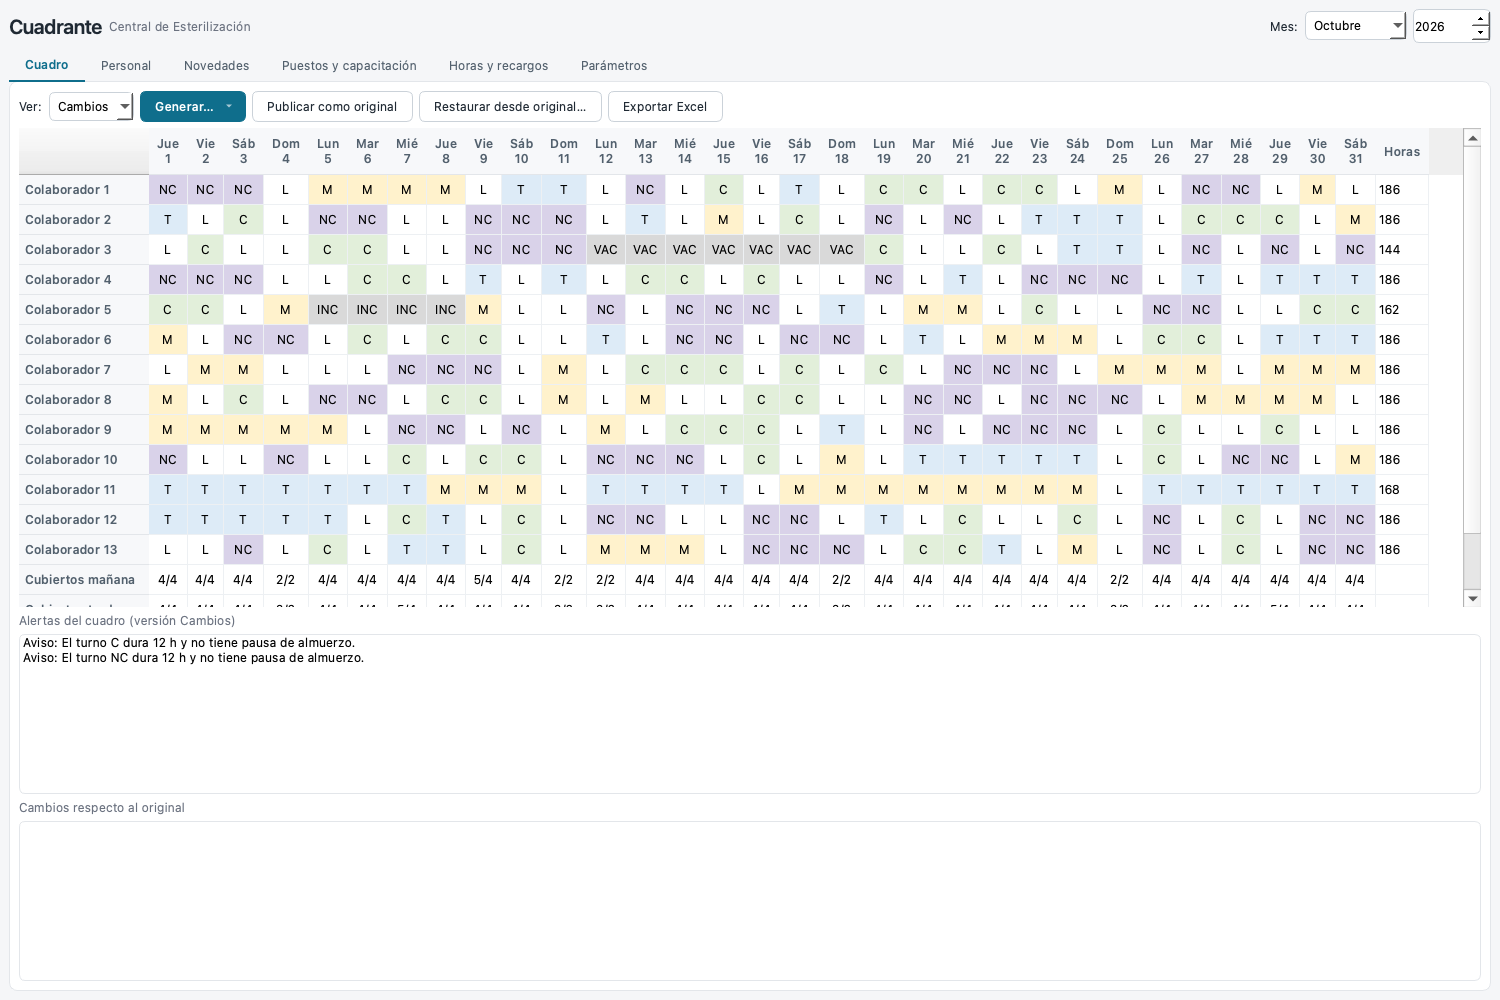
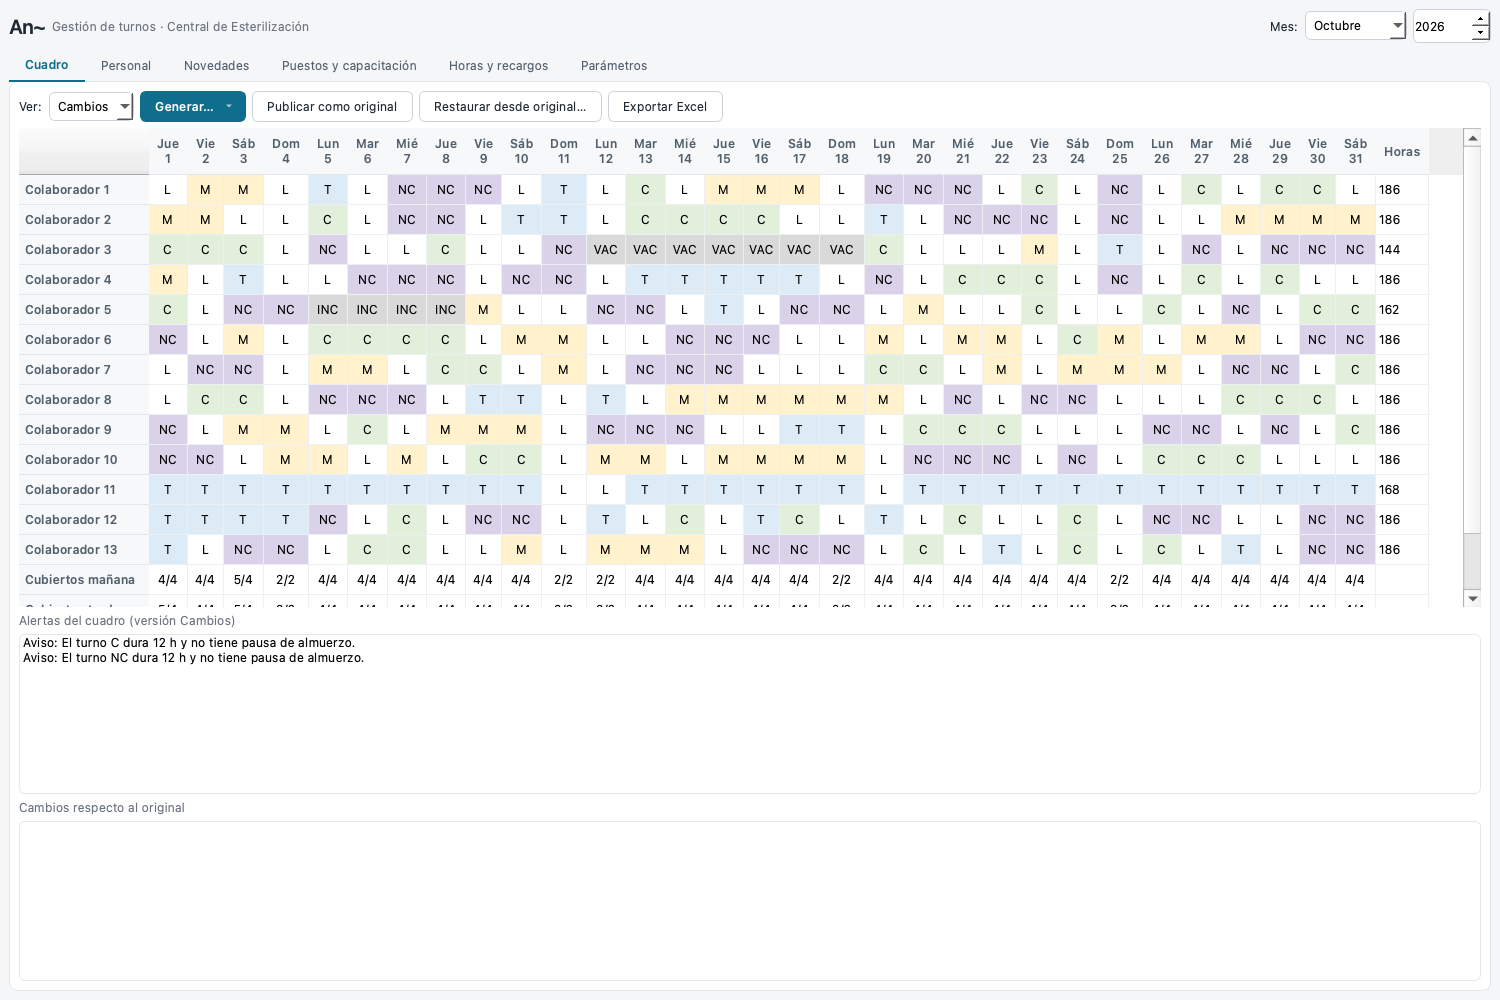
Rename project to An~ and describe it as general shift management
Rename the app, launcher and package to An~ (ASCII slug "an" for files).
Reposition the README around shift management with room to grow to more
services and linked administrative processes, and add docs/VISION.md.

Changed region(s): [[0.092, 0.155, 0.92, 0.589], [0.0, 0.0, 0.184, 0.031], [0.092, 0.527, 0.1227, 0.589]]

diff --git a/app.py b/app.py
@@ -1,4 +1,4 @@
-"""Cuadrante: personal, novedades, cuadro mensual, puestos, horas y recargos."""
+"""An~: personal, novedades, cuadro mensual, puestos, horas y recargos."""
 import os
 import subprocess
 import sys
@@ -114,9 +114,9 @@ class Trabajo(QThread):
 class Ventana(QMainWindow):
     def __init__(self, ruta_bd=BD_RUTA):
         super().__init__()
-        self.setWindowTitle("Cuadrante · Esterilización")
+        self.setWindowTitle("An~ · Esterilización")
         self.resize(1360, 860)
-        self.cfg = QSettings("Cuadrante", "Cuadrante")
+        self.cfg = QSettings("An", "An")
         self.bd = db.BD(str(ruta_bd))
         self.trabajo = None
         hoy = date.today()
@@ -124,8 +124,8 @@ class Ventana(QMainWindow):
         self.setCentralWidget(raiz)
         v = QVBoxLayout(raiz)
         cab = QHBoxLayout()
-        cab.addWidget(QLabel("Cuadrante", objectName="titulo"))
-        cab.addWidget(QLabel("Central de Esterilización", objectName="muted"))
+        cab.addWidget(QLabel("An~", objectName="titulo"))
+        cab.addWidget(QLabel("Gestión de turnos · Central de Esterilización", objectName="muted"))
         cab.addStretch()
         self.mes = QComboBox()
         self.mes.addItems(MESES)

diff --git a/README.md b/README.md
@@ -1,9 +1,9 @@
 <div align="center">
 
-# Cuadrante
+# An~
 
-**Programación de turnos para la Central de Esterilización**<br>
-Genera el cuadro mensual, asigna los puestos del día y calcula horas y recargos según el Código Sustantivo del Trabajo.
+**Gestión de turnos y de los procesos que giran alrededor**<br>
+Hoy programa la Central de Esterilización: genera el cuadro mensual, asigna puestos y calcula horas y recargos según el Código Sustantivo del Trabajo. Está pensada para crecer a más servicios y a procesos administrativos vinculados.
 
 ![Python](https://img.shields.io/badge/Python-3.13-3776AB?logo=python&logoColor=white)
 ![Qt](https://img.shields.io/badge/Interfaz-PySide6%20(Qt)-41CD52?logo=qt&logoColor=white)
@@ -11,11 +11,11 @@ Genera el cuadro mensual, asigna los puestos del día y calcula horas y recargos
 ![SQLite](https://img.shields.io/badge/Datos-SQLite-003B57?logo=sqlite&logoColor=white)
 ![Windows](https://img.shields.io/badge/Windows-portátil%2C%20sin%20instalar-0078D6?logo=windows&logoColor=white)
 
-[Guía de uso](docs/GUIA_USUARIO.md) · [Reglas y marco legal](docs/REGLAS.md) · [Arquitectura](docs/ARQUITECTURA.md) · [Hoja de ruta](docs/HOJA_DE_RUTA.md)
+[Guía de uso](docs/GUIA_USUARIO.md) · [Visión](docs/VISION.md) · [Reglas y marco legal](docs/REGLAS.md) · [Arquitectura](docs/ARQUITECTURA.md) · [Hoja de ruta](docs/HOJA_DE_RUTA.md)
 
 <br>
 
-<img src="docs/img/cuadro.png" alt="Cuadro mensual generado por Cuadrante" width="900">
+<img src="docs/img/cuadro.png" alt="Cuadro mensual generado por An~" width="900">
 
 <sub>Cuadro de octubre de 2026 con datos de ejemplo: cobertura completa, descansos de 12 h y novedades (VAC, INC) respetadas.</sub>
 
@@ -25,9 +25,19 @@ Genera el cuadro mensual, asigna los puestos del día y calcula horas y recargos
 
 ## Por qué existe
 
-Hoy el cuadro de turnos se arma a mano en Excel: ciclos que rotan, 12 colaboradores con distintas restricciones, estudiantes con horarios fijos, vacaciones, incapacidades… y después hay que contar horas y recargos. **Cuadrante** hace ese trabajo en segundos, deja que la coordinadora ajuste lo que quiera y explica cada alerta.
+En muchos servicios de un hospital el cuadro de turnos se arma a mano en Excel: ciclos que rotan, personas con restricciones, estudiantes con horarios fijos, vacaciones, incapacidades… y después hay que contar horas y recargos. **An~** hace ese trabajo en segundos, deja que la coordinadora ajuste lo que quiera y explica cada alerta.
 
 Está pensada para una persona no técnica en un **PC corporativo sin permisos de administrador**: se entrega como una carpeta que se descomprime y se abre con doble clic.
+
+## Hacia dónde va
+
+La v1 resuelve un servicio, la **Central de Esterilización**, y lo hace con reglas y turnos como *datos* editables, no como código. Esa es la base para convertirla en una herramienta general de gestión de turnos:
+
+- **Más servicios** con la misma estructura, cada uno con sus turnos, cobertura y puestos.
+- **Procesos administrativos vinculados**: novedades, solicitudes y permutas, capacitaciones, y el cierre de horas y recargos para nómina.
+- **Más personas usándola**, con aprobaciones y trazabilidad.
+
+El plan, los principios y las preguntas abiertas están en [docs/VISION.md](docs/VISION.md). Hoy el alcance es solo Esterilización.
 
 ## Qué hace
 
@@ -78,23 +88,23 @@ El solver cumple las reglas duras y optimiza el resto (horas de la ventana, rota
 **Desarrollo (Mac o Linux)**
 
 ```bash
-git clone https://github.com/jssdv/cuadrante.git
-cd cuadrante
+git clone https://github.com/jssdv/an-turnos.git
+cd an-turnos
 python3 -m venv .venv
 .venv/bin/pip install PySide6-Essentials openpyxl ortools
 .venv/bin/python app.py
 ```
 
-En Mac también sirve el doble clic en `Cuadrante.command`: prepara el entorno la primera vez y abre la app. Los datos quedan en `turnos.db`, junto a `app.py`.
+En Mac también sirve el doble clic en `An.command`: prepara el entorno la primera vez y abre la app. Los datos quedan en `turnos.db`, junto a `app.py`.
 
 **Paquete para Windows** (se arma desde el Mac)
 
 ```bash
 ./empaquetar.sh prueba   # dist/PruebaPC.zip: comprueba Qt y OR-Tools en el PC corporativo
-./empaquetar.sh          # dist/Cuadrante.zip: la app completa (≈ 150 MB comprimida)
+./empaquetar.sh          # dist/An.zip: la app completa (≈ 150 MB comprimida)
 ```
 
-En el PC destino basta descomprimir y abrir `Cuadrante.bat`. No se instala nada.
+En el PC destino basta descomprimir y abrir `An.bat`. No se instala nada.
 
 **Pruebas**
 
@@ -107,6 +117,7 @@ En el PC destino basta descomprimir y abrir `Cuadrante.bat`. No se instala nada.
 | Documento | Para quién | Contenido |
 |---|---|---|
 | [Guía de uso](docs/GUIA_USUARIO.md) | Coordinación | El mes paso a paso: personal, novedades, generar, ajustar, exportar |
+| [Visión](docs/VISION.md) | Todos | Hacia dónde crece An~: más servicios y procesos vinculados |
 | [Reglas y marco legal](docs/REGLAS.md) | Coordinación, RR. HH., jurídico | Reglas del servicio, normativa aplicada y puntos por confirmar |
 | [Arquitectura](docs/ARQUITECTURA.md) | Desarrollo | Módulos, datos, modelo del solver, empaquetado |
 | [Hoja de ruta](docs/HOJA_DE_RUTA.md) | Todos | Qué falta validar y hacia dónde crece |

diff --git a/docs/VISION.md b/docs/VISION.md
@@ -1,0 +1,84 @@
+# Visión
+
+[← Volver al inicio](../README.md) · [Hoja de ruta](HOJA_DE_RUTA.md) · [Arquitectura](ARQUITECTURA.md) · [Reglas](REGLAS.md)
+
+**An~** nace para programar los turnos de la Central de Esterilización. La intención es que sea la base de una herramienta general de **gestión de turnos**, a la que se puedan sumar otros servicios y los procesos administrativos que dependen de ellos.
+
+> Estado: la v1 cubre **solo Esterilización**. Este documento describe la dirección; no promete nada que ya exista. Lo construido está en la [arquitectura](ARQUITECTURA.md) y lo pendiente en la [hoja de ruta](HOJA_DE_RUTA.md).
+
+## Qué problema resuelve
+
+Programar turnos bien exige cumplir cobertura, descansos, restricciones personales y normativa laboral a la vez, y después contar horas y recargos. Hecho a mano consume días y deja errores. La idea es que el sistema proponga, valide y explique, y que la persona decida.
+
+## Principios
+
+1. **La persona decide.** El solver propone; la coordinación ajusta, publica y deja constancia de los cambios.
+2. **Reglas como datos.** Turnos, cobertura, puestos y tarifas se editan desde la app. Agregar un servicio o cambiar una ley no debe exigir programar.
+3. **Núcleo sin interfaz.** El dominio, las reglas y el solver son Python puro; la interfaz solo los llama. Así la misma lógica puede servir desde otra interfaz o un servidor.
+4. **Portátil y sin permisos.** Debe funcionar en un PC corporativo sin administrador.
+5. **Excel como puente.** Entra y sale en Excel mientras los demás procesos sigan allí.
+6. **Datos personales protegidos.** Los datos del personal no salen del equipo ni del repositorio (Ley 1581 de 2012).
+7. **Etapas pequeñas que sirven solas.**
+
+## Piezas y cómo se vinculan
+
+```mermaid
+flowchart LR
+    subgraph Hoy[Construido · v1]
+        T[Turnos y<br/>cobertura]
+        P[Personal y<br/>novedades]
+        S[Solver]
+        H[Horas y<br/>recargos]
+        U[Puestos y<br/>capacitación]
+    end
+    subgraph Sig[Candidatos a vincular]
+        SV[Varios<br/>servicios]
+        SO[Solicitudes<br/>y permutas]
+        NO[Cierre para<br/>nómina]
+        CA[Capacitaciones<br/>y cursos]
+        PR[Permisos y<br/>aprobaciones]
+    end
+    P --> S
+    T --> S
+    S --> H
+    S --> U
+    SV -.-> T
+    SV -.-> P
+    SO -.-> S
+    H -.-> NO
+    U -.-> CA
+    PR -.-> P
+```
+
+Las líneas punteadas son ideas, no compromisos.
+
+## Qué cambiaría para crecer
+
+| Tema | Hoy | Para varios servicios |
+|---|---|---|
+| Servicio | Uno, implícito | Entidad `servicio` con sus turnos, cobertura, puestos y personal |
+| Puestos | Los 5 de Esterilización | Catálogo de puestos por servicio |
+| Reglas | Parámetros globales | Reglas por servicio sobre el mismo motor |
+| Personal | Una lista | Personas que pueden pertenecer a más de un servicio |
+| Usuarios | Una persona, un equipo | Varias personas y roles (coordina, aprueba, consulta) |
+| Datos | SQLite local | SQLite compartido o base de servidor, según el hospital |
+| Salidas | 3 Excel | Más formatos y un cierre de horas para nómina |
+
+## Procesos administrativos candidatos
+
+- **Solicitudes y permutas** entre colaboradores, con aprobación y registro de quién, cuándo y por qué.
+- **Novedades** con soporte (por ejemplo, incapacidades) y su efecto en horas contratadas.
+- **Cierre de nómina**: horas por categoría y recargos en el formato que pida Recursos Humanos.
+- **Capacitaciones** como proceso propio, con asistencia y vencimientos.
+- **Permisos, vacaciones y su aprobación**, con saldos.
+
+Cada uno se diseñará cuando se pida, con su documento en `docs/` antes de programarlo.
+
+## Preguntas abiertas
+
+1. ¿Qué otros servicios usarían la herramienta y qué tan distintas son sus reglas?
+2. ¿Quién aprobaría solicitudes y cambios, y con qué flujo?
+3. ¿Qué formato pide Recursos Humanos o nómina para recibir las horas?
+4. ¿Dónde se guardarían los datos si lo usa más de una persona: un equipo, una carpeta compartida o un servidor del hospital?
+5. ¿Existe un sistema de personal con el que habría que integrarse?
+6. Qué debe aprobar jurídico sobre jornada, turnos de 12 h y recargos ([puntos por confirmar](REGLAS.md)).

diff --git a/docs/GUIA_USUARIO.md b/docs/GUIA_USUARIO.md
@@ -2,7 +2,7 @@
 
 [← Volver al inicio](../README.md) · [Reglas](REGLAS.md) · [Hoja de ruta](HOJA_DE_RUTA.md)
 
-Esta guía recorre un mes completo. Todo se hace dentro de Cuadrante; no hace falta tocar Excel hasta el final.
+Esta guía recorre un mes completo. Todo se hace dentro de An~; no hace falta tocar Excel hasta el final.
 
 ## Antes de empezar (una sola vez)
 
@@ -28,7 +28,7 @@ Pestaña **Cuadro** → elige el mes → **Generar… → Generar desde cero**. 
 
 ### 3. Ajustar
 
-Haz doble clic en una celda y escribe el código del turno (`M`, `T`, `C`, `NC`) o `L` para libre. Cuadrante:
+Haz doble clic en una celda y escribe el código del turno (`M`, `T`, `C`, `NC`) o `L` para libre. An~:
 
 - guarda el cambio como **fijo** (el solver ya no lo mueve),
 - lo marca en **amarillo** frente al original,
@@ -79,4 +79,4 @@ Si el archivo ya existe, guarda `v2`, `v3`… y no sobrescribe nada.
 
 **Cambié un horario de turno y salieron alertas.** Es lo esperado: el cuadro existente se revalida con los horarios nuevos. Regenera el mes o la semana.
 
-**¿Qué hago si algo falla?** El detalle queda en `errores.log`, junto a la app. Envíalo a quien mantiene Cuadrante.
+**¿Qué hago si algo falla?** El detalle queda en `errores.log`, junto a la app. Envíalo a quien mantiene An~.

diff --git a/docs/HOJA_DE_RUTA.md b/docs/HOJA_DE_RUTA.md
@@ -1,6 +1,8 @@
 # Hoja de ruta
 
-[← Volver al inicio](../README.md) · [Reglas](REGLAS.md) · [Arquitectura](ARQUITECTURA.md)
+La dirección general, los principios y las preguntas abiertas están en la [visión](VISION.md).
+
+[← Volver al inicio](../README.md) · [Visión](VISION.md) · [Reglas](REGLAS.md) · [Arquitectura](ARQUITECTURA.md)
 
 Estado a oct-2026. v1 está construida; falta validarla con la coordinación y en el PC corporativo.
 
